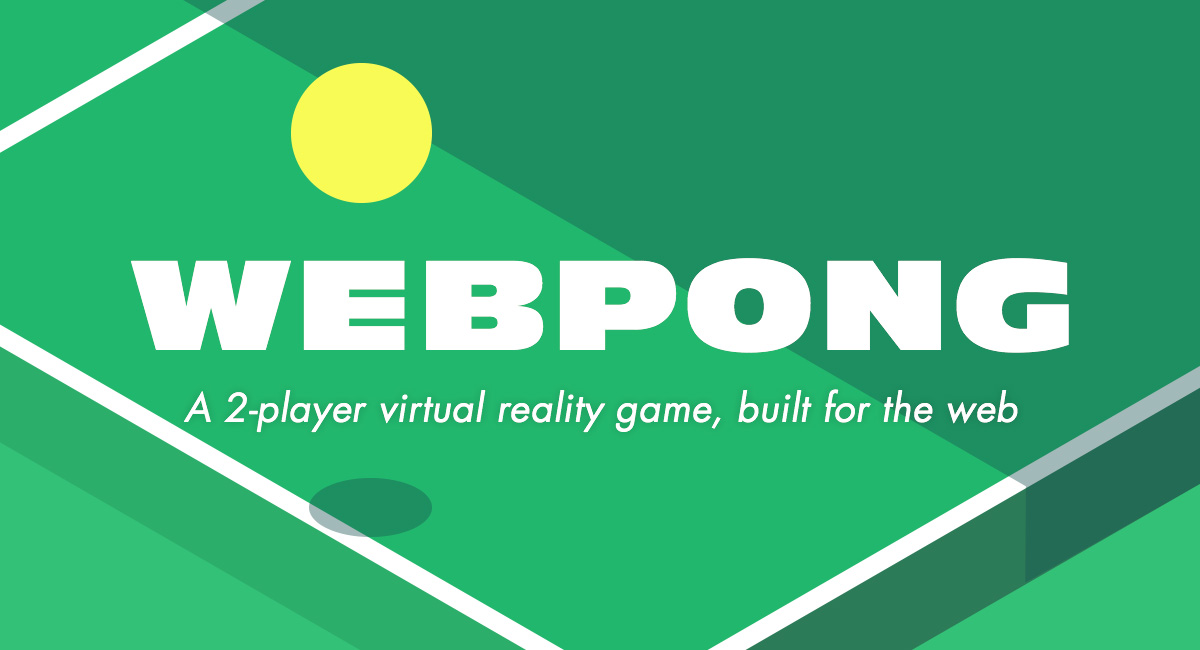
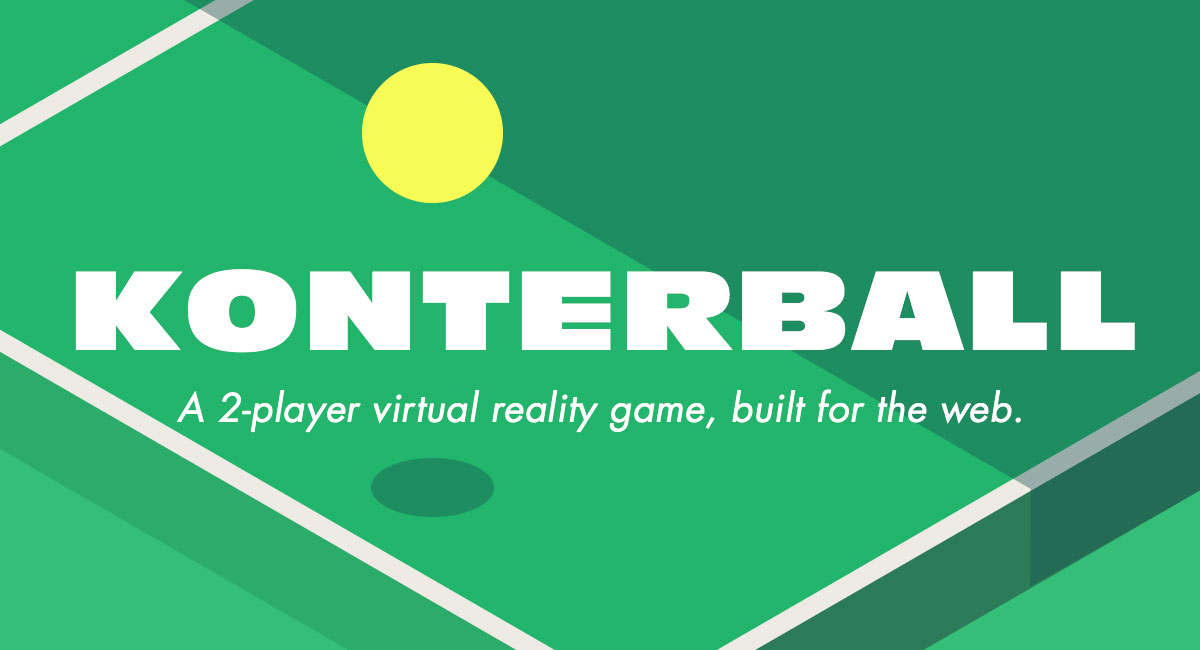
improve readme

diff --git a/README.md b/README.md
@@ -1,11 +1,14 @@
 # Konterball
 
 <p align="center">
-  <img alt="Konterball" src="https://raw.githubusercontent.com/madebywild/konterball/master/demo.gif">
+  <img alt="Konterball Logo" src="https://raw.githubusercontent.com/madebywild/konterball/master/logo.png">
+</p>
+<p align="center">
+  <img alt="Konterball Demo" src="https://raw.githubusercontent.com/madebywild/konterball/master/demo.gif">
 </p>
 
 <p align="center">
-  [Try it here](https://konterball.com/)
+  <a href="https://konterball.com/">Try it here</a>
 </p>
 
 ## Introduction
